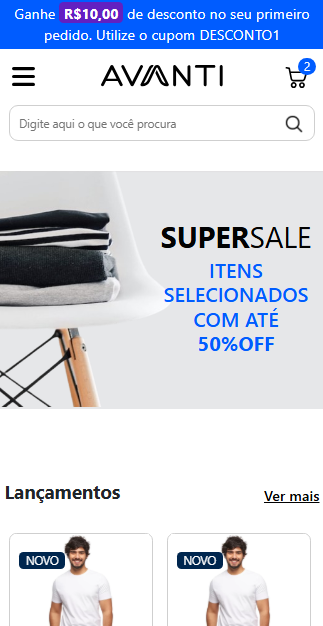
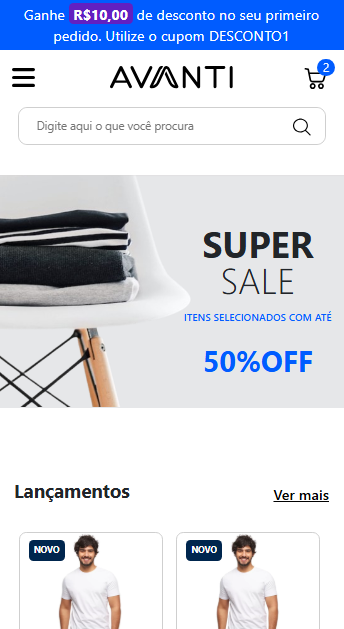
Atualizando as imagens das capas mobile e desktop no readme

diff --git a/README.md b/README.md
@@ -25,7 +25,7 @@ Loja de E-commerce de roupas e acessórios da Avanti
 
 <h3 align="center">Versão Desktop</h3>
 <p align="center">
-  <img src="./assets/capa_web.png" alt="Versão Web" width="90%">
+  <img src="./assets/capa_desktop.png" alt="Versão Web" width="90%">
 </p>
 
 <h3 align="center">Versão Mobile</h3>
